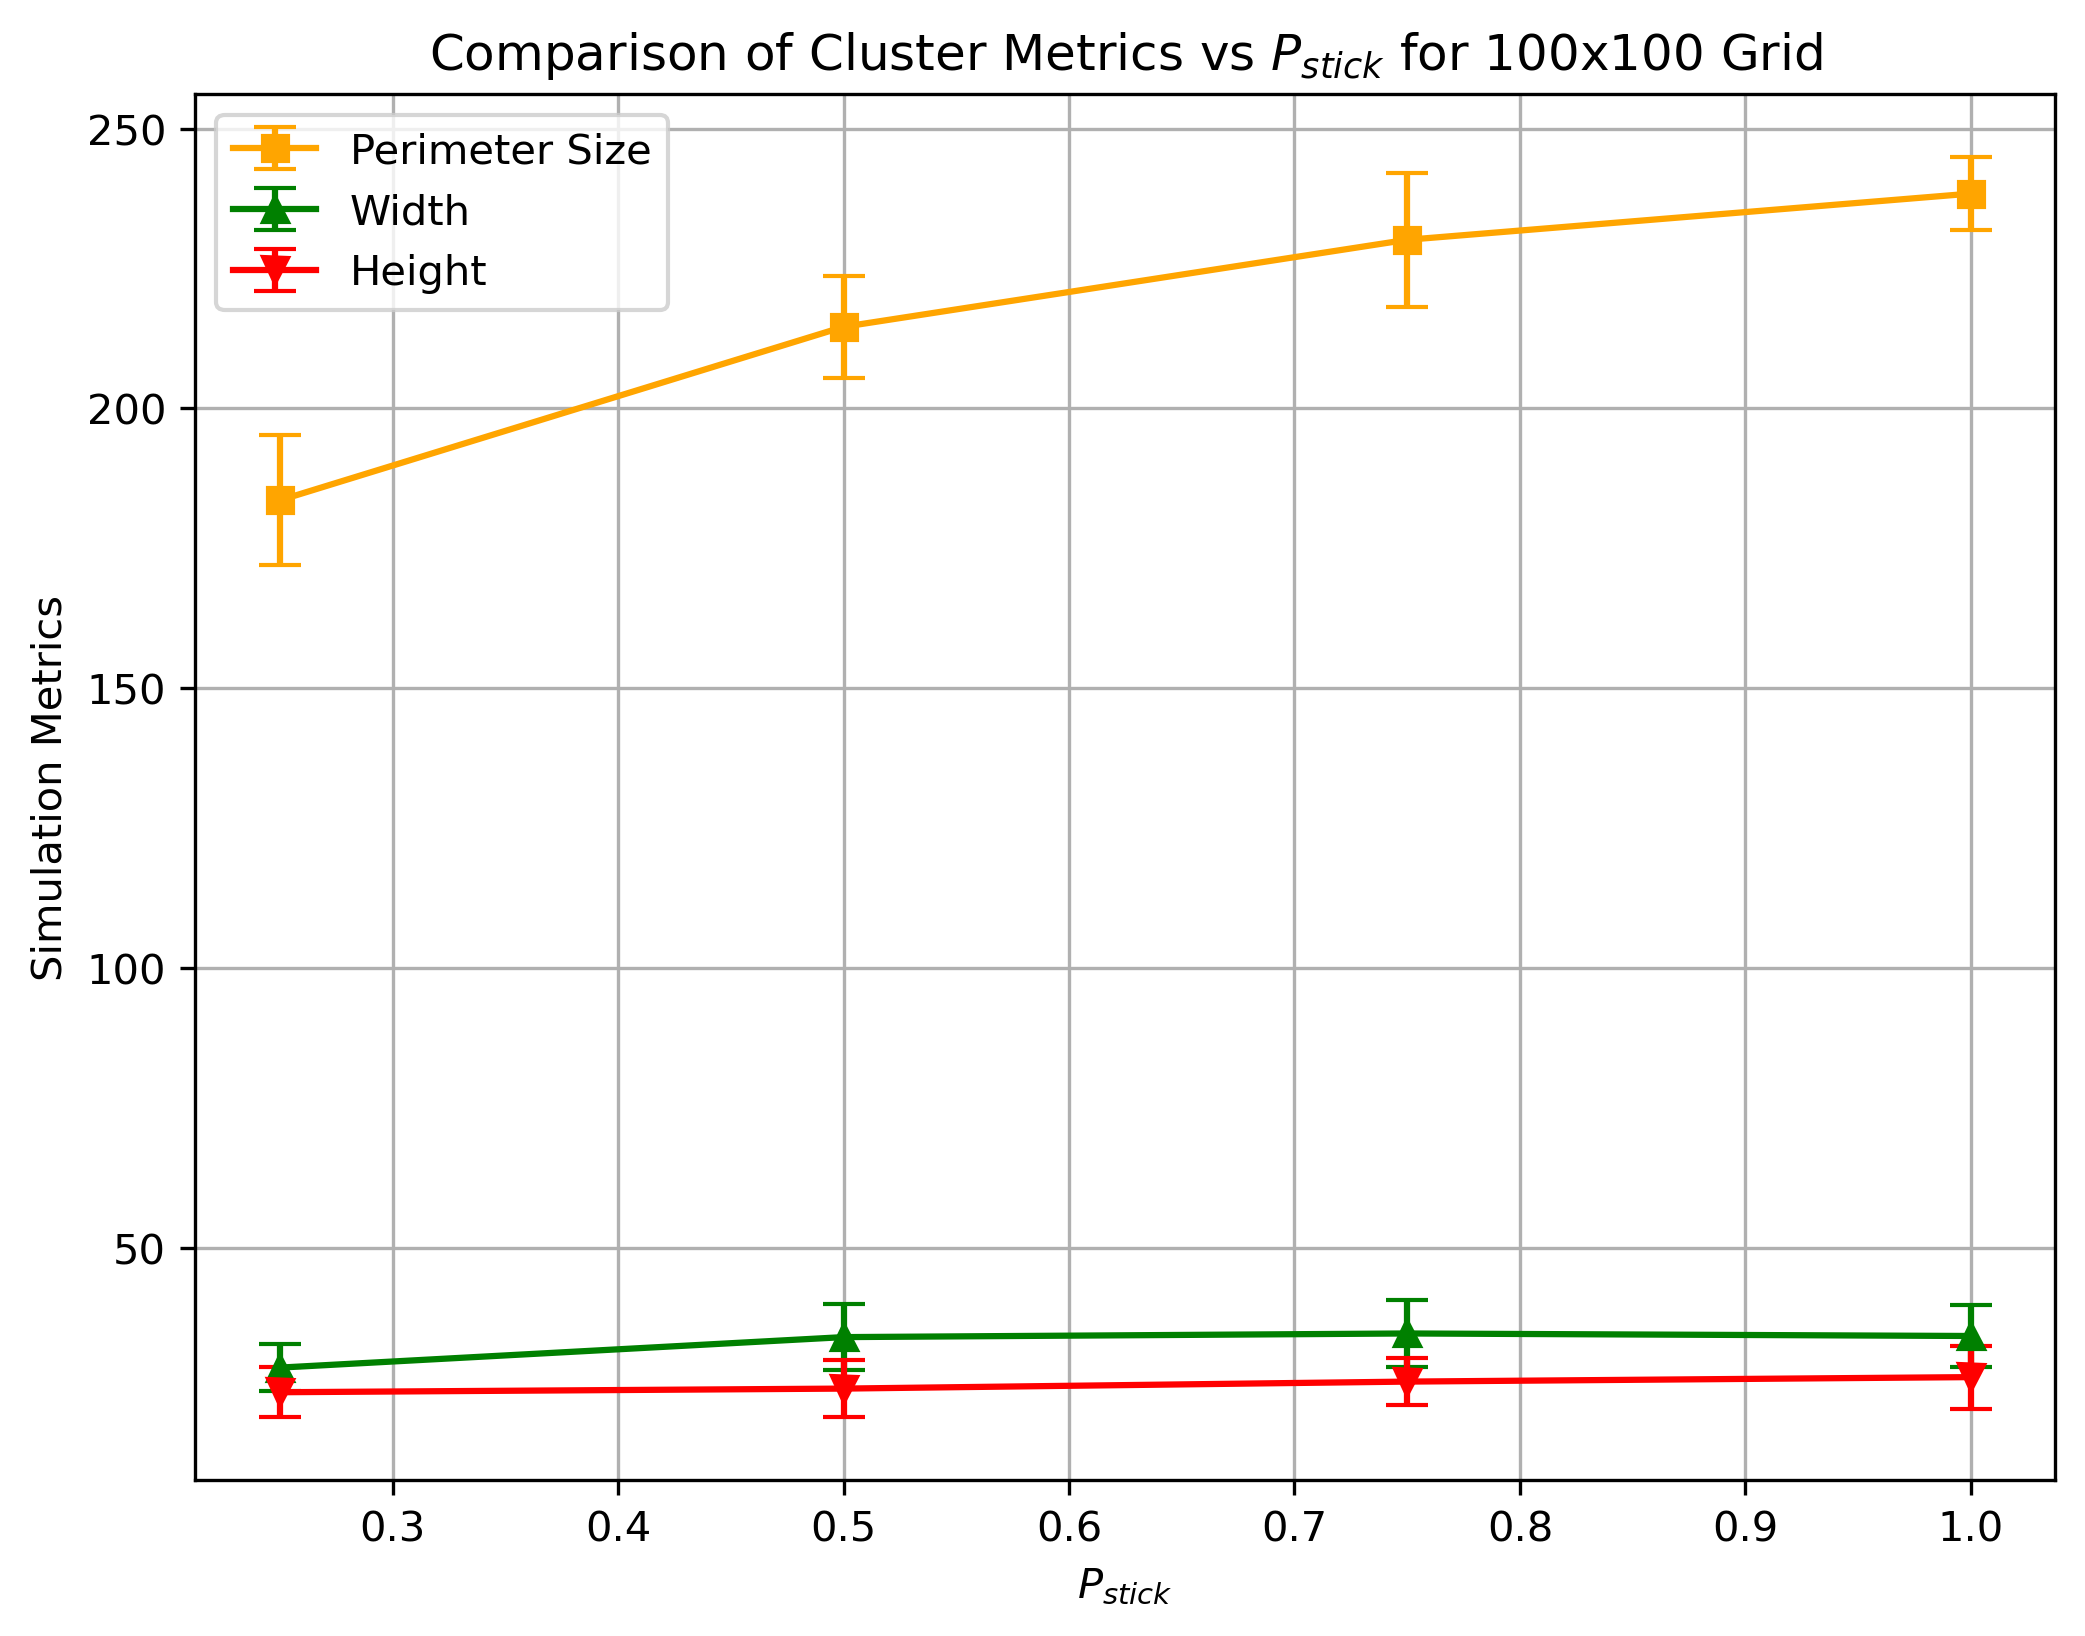
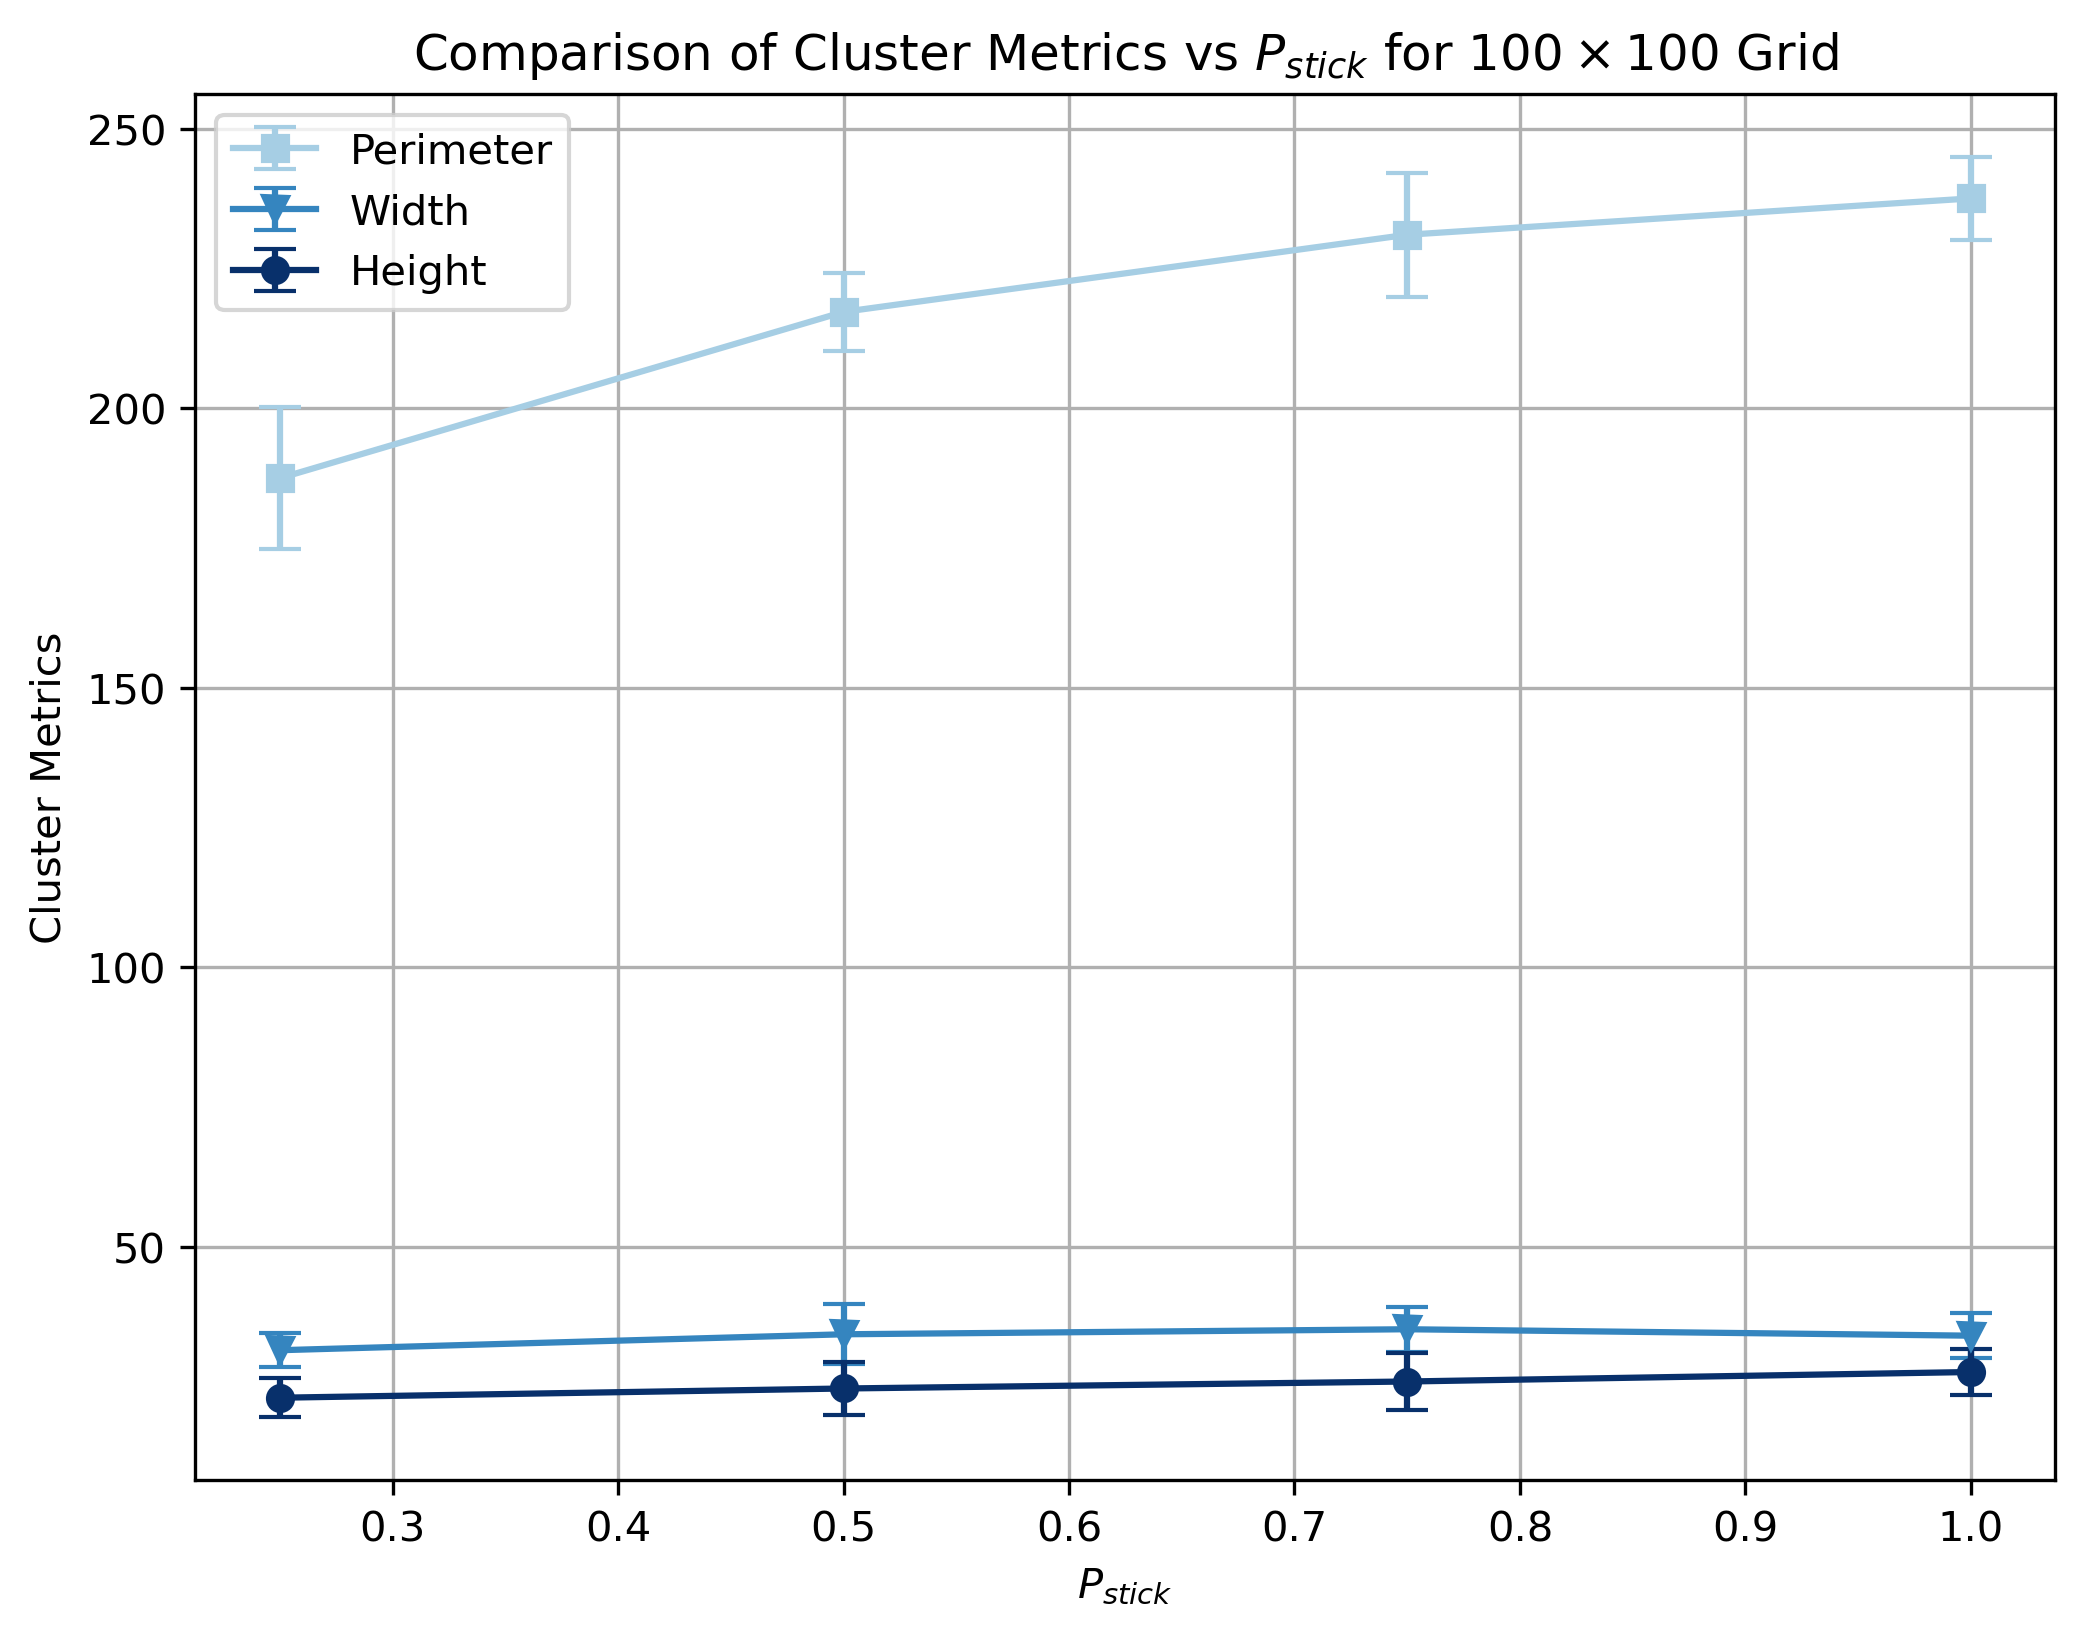
New versions of plots for DLA

diff --git a/modules/dla_algorithm.py b/modules/dla_algorithm.py
@@ -10,7 +10,7 @@ from modules.config import CLUSTER_VALUE_DLA, CONCENTRATION_VALUE, DPI, FIG_SIZE
 from modules.grid import initialize_grid
 
 CMAP_DLA = mpl.colormaps["Blues"]
-COLORS_DLA = CMAP_DLA(np.linspace(0.3, 1, 3))
+COLORS_DLA = CMAP_DLA(np.linspace(0.35, 1, 3))
 
 
 class Diffusion:
